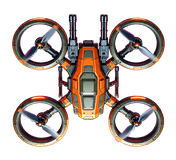
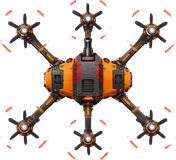
Rotor hizasi: gunner 6, shield 8 — govdeye cizilen sahte yaylar gitti
CONFIG.ROTOR.centers gunner icin 6, shield icin 8 rotor merkezi tanimliyordu ama
sprite'larda 4'er rotor vardi. Fazla yaylar GOVDENIN ustune ciziliyordu — ki bu
`visuals` kapisinin "govde cevresinde daire yok" sartinin dogrudan ihlali. Oyun
bu haliyle turlardir gonderiliyormus ve hicbir kapi gormemis: `rotor_spin`
yalnizca acinin degistigini ve deterministik oldugunu olcer, yaylarin nereye
dustugunu olcmez.

Sprite'lar config'in ZATEN soyledigi geometriye gore yeniden ureildi: gunner iki
sirada uc rotor (6), shield sekiz kollu yildiz (8). Uc uretim turu gerekti;
ilk ikisi 6 rotor yerine 4 uretti.

Otomatik bir hiza kapisi denedim ve ISE YARAMADI: cember uzerindeki opak piksel
orani, pervaneler ince oldugu icin dogru hizalanmis bir rotorda bile dusuk cikiyor
(mevcut scout'ta 0.05). Bugun uydurdugum ucuncu basarisiz metrikti; dorduncuyu
denemedim. Onun yerine tools/rotor_overlay.py: merkezleri sprite uzerine cizen bir
GOSTERGE. Kapi degil, bakilacak bir goruntu — ve sinirini STATE.md'ye yazdim.

Olculen etki (web, ayni kosum kosullari):
  foreground_contrast  161 -> 196
  player_contrast      200 -> 214
Web 68 PASS / 1 FAIL korundu (tek FAIL vision_polish = ulasilamayan LAN API).
Android game GATE GREEN, dusen kare 0/300. tile_seam 5/5.

Claude-Session: https://claude.ai/code/session_01VfksYpGuDaCrvrWw22xeHt

diff --git a/tools/rotor_overlay.py b/tools/rotor_overlay.py
@@ -1,0 +1,86 @@
+#!/usr/bin/env python3
+"""Sprite'in uzerine CONFIG.ROTOR.centers'i cizer — donen yaylar nereye dusuyor?
+
+Neden var: `rotor_spin` kapisi yalnizca acinin degistigini ve deterministik
+oldugunu olcer; yaylarin ROTORLARIN USTUNE dustugunu olcmez. Sprite degisirse
+yaylar bosluga cizilebilir ve hicbir kapi bunu yakalamaz.
+
+Otomatik bir esik denedim (cember uzerindeki opak piksel orani) ve ise yaramadi:
+pervaneler ince, cember cogunlukla kanatlar ARASINDAN geciyor, dolayisiyla
+dogru hizalanmis bir rotorda bile oran dusuk cikiyor. Bu yuzden betik bir kapi
+degil, bir GOSTERGE: cikan goruntuye bakilir.
+
+  python3 tools/rotor_overlay.py [sprite ...]   -> reports/rotor_overlay.png
+"""
+import json
+import pathlib
+import re
+import sys
+
+from PIL import Image, ImageDraw
+
+ROOT = pathlib.Path(__file__).resolve().parent.parent
+CONFIG_JS = ROOT / "src" / "core" / "CONFIG.js"
+OUT = ROOT / "reports" / "rotor_overlay.png"
+
+
+def parse_rotor_config():
+    """CONFIG.js icindeki centers/radii bloklarini okur (tek kaynak: CONFIG.js)."""
+    src = CONFIG_JS.read_text()
+    centers, radii = {}, {}
+    blk = re.search(r"centers:\s*\{(.*?)\n    \},", src, re.S)
+    for name, body in re.findall(r"(\w+):\s*\[(.*?)\],\s*\n", blk.group(1) + "\n"):
+        pts = [tuple(map(int, m)) for m in re.findall(r"\[(-?\d+)\s*,\s*(-?\d+)\]", body)]
+        if pts:
+            centers[name] = pts
+    blk = re.search(r"radii:\s*\{(.*?)\},", src, re.S)
+    for name, val in re.findall(r"(\w+):\s*(\d+)", blk.group(1)):
+        radii[name] = int(val)
+    return centers, radii
+
+
+def draw_sizes():
+    m = json.loads((ROOT / "assets" / "manifest.json").read_text())
+    return {s["name"]: (s["width"], s["height"]) for s in m["sprites"]}
+
+
+def main():
+    centers, radii = parse_rotor_config()
+    sizes = draw_sizes()
+    names = sys.argv[1:] or [n for n in centers if (ROOT / "assets" / f"{n}.png").exists()]
+
+    cell = 240
+    sheet = Image.new("RGB", (cell * len(names), cell + 22), (34, 34, 40))
+    label = ImageDraw.Draw(sheet)
+
+    for i, name in enumerate(names):
+        path = ROOT / "assets" / f"{name}.png"
+        if not path.exists() or name not in centers:
+            continue
+        dw, dh = sizes.get(name, (96, 96))
+        r = radii.get(name, 20)
+        im = Image.open(path).convert("RGBA").resize((dw * 2, dh * 2), Image.LANCZOS)
+        ov = Image.new("RGBA", im.size, (0, 0, 0, 0))
+        d = ImageDraw.Draw(ov)
+        for (cx, cy) in centers[name]:
+            x = (dw / 2 + cx) * 2
+            y = (dh / 2 + cy) * 2
+            d.ellipse([x - r * 2, y - r * 2, x + r * 2, y + r * 2],
+                      outline=(0, 255, 120, 255), width=3)
+            d.line([x - 5, y, x + 5, y], fill=(0, 255, 120, 255), width=2)
+            d.line([x, y - 5, x, y + 5], fill=(0, 255, 120, 255), width=2)
+        im.alpha_composite(ov)
+        # sehir parlakligi zemin (ort. 62) — silueti gercekci degerlendirmek icin
+        bg = Image.new("RGB", im.size, (62, 62, 70))
+        bg.paste(im, (0, 0), im)
+        bg.thumbnail((cell - 16, cell - 16), Image.LANCZOS)
+        sheet.paste(bg, (i * cell + 8, 8))
+        label.text((i * cell + 10, cell + 4), name, fill=(235, 235, 235))
+
+    OUT.parent.mkdir(exist_ok=True)
+    sheet.save(OUT)
+    print(f"yazildi: {OUT.relative_to(ROOT)}  ({len(names)} sprite)")
+
+
+if __name__ == "__main__":
+    sys.exit(main())

diff --git a/STATE.md b/STATE.md
@@ -72,6 +72,15 @@
 - **Cila (Round 13+):** Değerlendirici bulgularıyla ince ayar.
 
 ## Orkestratör Notları — Geri Alma
+- **`CONFIG.ROTOR.centers` sprite'la uyuşmuyorsa hiçbir kapı yakalamaz.** `rotor_spin`
+  yalnızca açının değiştiğini ve deterministik olduğunu ölçer; yayların ROTORLARIN
+  ÜSTÜNE düştüğünü ölçmez. Round 21'de ölçüldü: gunner'da 6 merkez / 4 rotor,
+  shield'da 8 merkez / 4 rotor vardı — fazla yaylar **gövdeye** çiziliyordu, ki bu
+  `visuals` kapısının "gövde çevresinde daire yok" şartının doğrudan ihlali. Sprite'lar
+  6 ve 8 rotorlu olarak yeniden üretildi. Dron sprite'ı değiştirirsen
+  `python3 tools/rotor_overlay.py` ile BAK — otomatik eşik denedim, pervaneler ince
+  olduğu için çember çoğunlukla kanatlar arasından geçiyor ve doğru hizalanmış rotorda
+  bile düşük oran veriyor. Bu bir gösterge, kapı değil.
 - **Bir kapının yeşil olması koştuğu anlamına gelmez.** `:rules:test` golden dosyayı Gradle
   **girdisi** olarak bildirmiyordu; golden değişince `FROM-CACHE` dönüp yeşil dedi ve
   sahiplik kayması üç koşum boyunca fark edilmedi. Ölçüm dosyasını her zaman `inputs.file`
